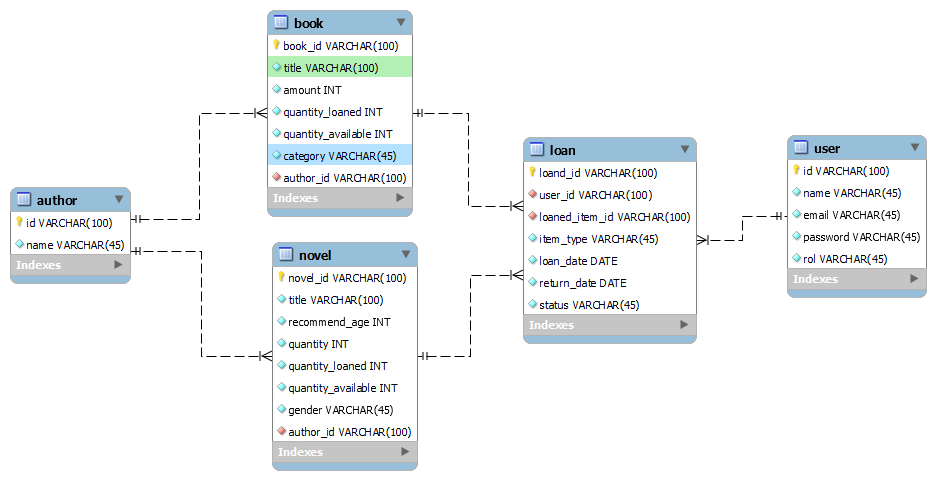
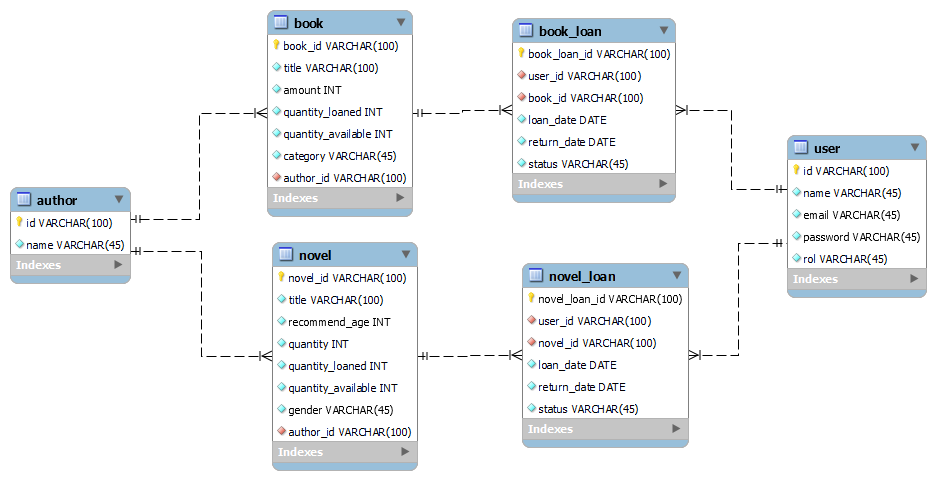
Se terminan de crear las clases representado las entidades

diff --git a/PinguinLibrary/src/main/java/co/com/sofka/model/Item.java b/PinguinLibrary/src/main/java/co/com/sofka/model/Item.java
@@ -1,0 +1,60 @@
+package co.com.sofka.model;
+
+public abstract class Item {
+    protected String id;
+    protected int quantity;
+    protected int quantityLoaned;
+    protected int quantityAvailable;
+
+    public Item() {
+    }
+
+    public Item(String id, int quantity, int quantityLoaned, int quantityAvailable) {
+        this.id = id;
+        this.quantity = quantity;
+        this.quantityLoaned = quantityLoaned;
+        this.quantityAvailable = quantityAvailable;
+    }
+
+    public String getId() {
+        return id;
+    }
+
+    public void setId(String id) {
+        this.id = id;
+    }
+
+    public int getQuantity() {
+        return quantity;
+    }
+
+    public void setQuantity(int quantity) {
+        this.quantity = quantity;
+    }
+
+    public int getQuantityLoaned() {
+        return quantityLoaned;
+    }
+
+    public void setQuantityLoaned(int quantityLoaned) {
+        this.quantityLoaned = quantityLoaned;
+    }
+
+    public int getQuantityAvailable() {
+        return quantityAvailable;
+    }
+
+    public void setQuantityAvailable(int quantityAvailable) {
+        this.quantityAvailable = quantityAvailable;
+    }
+
+    @Override
+    public String toString() {
+        return "Item{" +
+                "id='" + id + '\'' +
+                ", quantity=" + quantity +
+                ", quantityLoaned=" + quantityLoaned +
+                ", quantityAvailable=" + quantityAvailable +
+                '}';
+    }
+}

diff --git a/PinguinLibrary/src/main/java/co/com/sofka/model/Manuscript.java b/PinguinLibrary/src/main/java/co/com/sofka/model/Manuscript.java
@@ -1,0 +1,48 @@
+package co.com.sofka.model;
+
+public class Manuscript extends Item{
+    protected String title;
+    protected Author author;
+
+    public Manuscript() {
+    }
+
+    public Manuscript(String title, Author author) {
+        this.title = title;
+        this.author = author;
+    }
+
+    public Manuscript(String id, int quantity, int quantityLoaned, int quantityAvailable, String title, Author author) {
+        super(id, quantity, quantityLoaned, quantityAvailable);
+        this.title = title;
+        this.author = author;
+    }
+
+    public String getTitle() {
+        return title;
+    }
+
+    public void setTitle(String title) {
+        this.title = title;
+    }
+
+    public Author getAuthor() {
+        return author;
+    }
+
+    public void setAuthor(Author author) {
+        this.author = author;
+    }
+
+    @Override
+    public String toString() {
+        return "Manuscript{" +
+                "title='" + title + '\'' +
+                ", author=" + author +
+                ", id='" + id + '\'' +
+                ", quantity=" + quantity +
+                ", quantityLoaned=" + quantityLoaned +
+                ", quantityAvailable=" + quantityAvailable +
+                '}';
+    }
+}

diff --git a/PinguinLibrary/src/main/java/co/com/sofka/model/Book.java b/PinguinLibrary/src/main/java/co/com/sofka/model/Book.java
@@ -1,0 +1,43 @@
+package co.com.sofka.model;
+
+public class Book extends Manuscript{
+    private String category;
+
+    public Book() {
+    }
+
+    public Book(String category) {
+        this.category = category;
+    }
+
+    public Book(String title, Author author, String category) {
+        super(title, author);
+        this.category = category;
+    }
+
+    public Book(String id, int quantity, int quantityLoaned, int quantityAvailable, String title, Author author, String category) {
+        super(id, quantity, quantityLoaned, quantityAvailable, title, author);
+        this.category = category;
+    }
+
+    public String getCategory() {
+        return category;
+    }
+
+    public void setCategory(String category) {
+        this.category = category;
+    }
+
+    @Override
+    public String toString() {
+        return "Book{" +
+                "category='" + category + '\'' +
+                ", title='" + title + '\'' +
+                ", author=" + author +
+                ", id='" + id + '\'' +
+                ", quantity=" + quantity +
+                ", quantityLoaned=" + quantityLoaned +
+                ", quantityAvailable=" + quantityAvailable +
+                '}';
+    }
+}

diff --git a/PinguinLibrary/src/main/java/co/com/sofka/model/Novel.java b/PinguinLibrary/src/main/java/co/com/sofka/model/Novel.java
@@ -1,0 +1,43 @@
+package co.com.sofka.model;
+
+public class Novel extends Manuscript{
+    private String gender;
+
+    public Novel() {
+    }
+
+    public Novel(String gender) {
+        this.gender = gender;
+    }
+
+    public Novel(String title, Author author, String gender) {
+        super(title, author);
+        this.gender = gender;
+    }
+
+    public Novel(String id, int quantity, int quantityLoaned, int quantityAvailable, String title, Author author, String gender) {
+        super(id, quantity, quantityLoaned, quantityAvailable, title, author);
+        this.gender = gender;
+    }
+
+    public String getGender() {
+        return gender;
+    }
+
+    public void setGender(String gender) {
+        this.gender = gender;
+    }
+
+    @Override
+    public String toString() {
+        return "Novel{" +
+                "gender='" + gender + '\'' +
+                ", title='" + title + '\'' +
+                ", author=" + author +
+                ", id='" + id + '\'' +
+                ", quantity=" + quantity +
+                ", quantityLoaned=" + quantityLoaned +
+                ", quantityAvailable=" + quantityAvailable +
+                '}';
+    }
+}

diff --git a/PinguinLibrary/src/main/java/co/com/sofka/DB/constants/DatabaseConfigConstants.java b/PinguinLibrary/src/main/java/co/com/sofka/DB/constants/DatabaseConfigConstants.java
@@ -1,0 +1,11 @@
+package co.com.sofka.DB.constants;
+
+public class DatabaseConfigConstants {
+    private static final String MY_SQL_DRIVER = "com.mysql.cj.jdbc.Driver";
+    private static final String CONNECTION_STRING = "jdbc:mysql://%s/%s?user=%s&password=%s";
+
+    private static final String SERVER = "localhost";
+    private static final String DATA_BASE_NAME = "pinguin_library";
+    private static final String USER = "root";
+    private static final String PASSWORD = "johan2233Z.";
+}

diff --git a/PinguinLibrary/src/main/java/co/com/sofka/Main.java b/PinguinLibrary/src/main/java/co/com/sofka/Main.java
@@ -1,7 +1,5 @@
 package co.com.sofka;
 
-//TIP To <b>Run</b> code, press <shortcut actionId="Run"/> or
-// click the <icon src="AllIcons.Actions.Execute"/> icon in the gutter.
 public class Main {
     public static void main(String[] args) {
     }

diff --git a/PinguinLibrary/src/main/java/co/com/sofka/model/LoanStatus.java b/PinguinLibrary/src/main/java/co/com/sofka/model/LoanStatus.java
@@ -1,0 +1,7 @@
+package co.com.sofka.model;
+
+public enum LoanStatus {
+    REQUESTED,
+    COMPLETED,
+    FINISHED
+}

diff --git a/PinguinLibrary/src/main/java/co/com/sofka/DB/Connection.java b/PinguinLibrary/src/main/java/co/com/sofka/DB/Connection.java
@@ -1,0 +1,4 @@
+package co.com.sofka.DB;
+
+public class Connection {
+}
